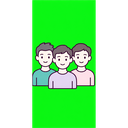
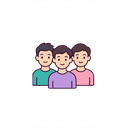
Fix deck switching save errors and privacy assets

diff --git a/client/src/App.tsx b/client/src/App.tsx
@@ -197,7 +197,11 @@ export default function App() {
       setQuestions(cards); setDeckTitle(title); setEditing(!startStudy); setCurrentSavedDeck({ ...currentSavedDeck, title, visibility, cards });
       if (startStudy) setMode("study");
       setSavedDecks(await listDecks(user.id));
-    } catch (error) { console.error(error); alert("Không thể lưu thay đổi bộ thẻ."); }
+    } catch (error) {
+      console.error(error);
+      alert(`Không thể lưu thay đổi bộ thẻ: ${error instanceof Error ? error.message : JSON.stringify(error)}`);
+      throw error;
+    }
   }
 
   async function saveEditedDeckAndStudy(title: string, cards: GeneratedQuestion[], visibility: "private" | "shared") {
